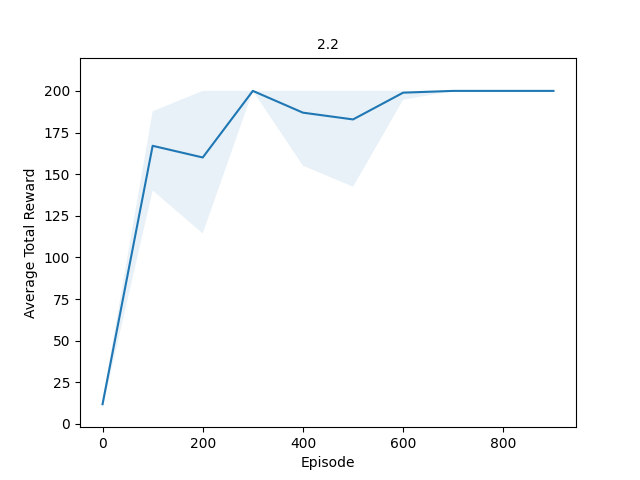
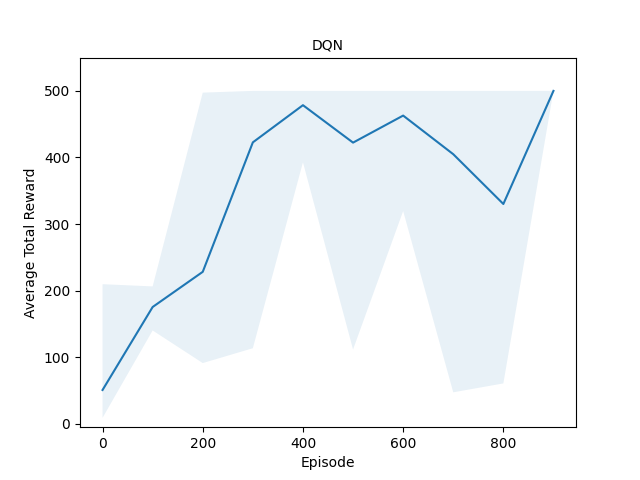
dqn fixes

diff --git a/dqn/dqn_new_2.py b/dqn/dqn_new_2.py
@@ -45,7 +45,7 @@ class ReplayMemory():
     
 
 class DeepQNetwork(nn.Module):
-    def __init__(self, state_size, action_size, lr_q_net=2e-4, gamma=0.99, epsilon=0.05, target_update=50, burn_in=10000, replay_buffer_size=50000, replay_buffer_batch_size=32, device='cpu'):
+    def __init__(self, state_size, action_size, lr_q_net=1e-4, gamma=0.99, epsilon=0.05, target_update=50, burn_in=10000, replay_buffer_size=50000, replay_buffer_batch_size=128, device='cpu'):
         super(DeepQNetwork, self).__init__()
 
         # define init params
@@ -84,13 +84,11 @@ class DeepQNetwork(nn.Module):
 
         # initialize replay buffer, networks, optimizer, move networks to device
         # BEGIN STUDENT SOLUTION
-        self.memory = ReplayMemory(replay_buffer_size, replay_buffer_batch_size)
-        self.q_net = q_net_init()
-        self.target = q_net_init()
+        self.memory = ReplayMemory(replay_buffer_size, self.replay_buffer_batch_size)
+        self.q_net = q_net_init().to(self.device)
+        self.target = q_net_init().to(self.device)
         self.target.load_state_dict(self.q_net.state_dict())
         self.optimizer = optim.AdamW(self.q_net.parameters(), lr=lr_q_net, amsgrad=True)
-        self.q_net = self.q_net.to(self.device)
-        self.target = self.target.to(self.device)
         # END STUDENT SOLUTION
 
 
@@ -98,7 +96,7 @@ class DeepQNetwork(nn.Module):
         return(self.q_net(state), self.target(state))
 
 
-    def get_action(self, state, stochastic):
+    def get_action(self, env, state, stochastic):
         # if stochastic, sample using epsilon greedy, else get the argmax
         # BEGIN STUDENT SOLUTION
         sample = random.random()
@@ -108,7 +106,7 @@ class DeepQNetwork(nn.Module):
           with torch.no_grad():
             return self.q_net(state).max(1).indices.view(1,1)
         else:
-            return torch.tensor([[random.choice([0, 1])]], device=self.device, dtype=torch.long)
+            return torch.tensor([[env.action_space.sample()]], device=self.device, dtype=torch.long)
         # END STUDENT SOLUTION
 
 
@@ -151,11 +149,14 @@ class DeepQNetwork(nn.Module):
             state = torch.tensor(state, dtype=torch.float32, device=self.device).unsqueeze(0)
             total_reward = 0
             for t in count():
-                action = self.get_action(state, False)
+                action = self.get_action(env, state, False)
                 observation, reward, terminated, truncated, _ = env.step(action.item())
                 done = terminated or truncated
                 total_reward += reward
-                next_state = None if done else torch.tensor(observation, dtype=torch.float32, device=self.device).unsqueeze(0)
+                if terminated:
+                  next_state = None
+                else:
+                  next_state = torch.tensor(observation, dtype=torch.float32, device=self.device).unsqueeze(0)
                 state = next_state
                 if done:
                     total_rewards.append(total_reward)
@@ -178,7 +179,10 @@ class DeepQNetwork(nn.Module):
               observation, reward, terminated, truncated, _ = env.step(action.item())
               reward = torch.tensor([reward], device=self.device)
               done = terminated or truncated
-              next_state = None if done else torch.tensor(observation, dtype=torch.float32, device=self.device).unsqueeze(0)
+              if terminated:
+                  next_state = None
+              else:
+                next_state = torch.tensor(observation, dtype=torch.float32, device=self.device).unsqueeze(0)
               self.memory.append((state, action, next_state, reward))
               state = next_state
               if done:
@@ -189,23 +193,25 @@ class DeepQNetwork(nn.Module):
             state = torch.tensor(state, dtype=torch.float32, device=self.device).unsqueeze(0)
             total_reward = 0
             for t in count():
-              action = self.get_action(state, True)
+              action = self.get_action(env, state, True)
               self.steps_done += 1
               observation, reward, terminated, truncated, _ = env.step(action.item())
               reward = torch.tensor([reward], device=self.device)
               done = terminated or truncated
               total_reward += reward
-              next_state = None if done else torch.tensor(observation, dtype=torch.float32, device=self.device).unsqueeze(0)
+              if terminated:
+                  next_state = None
+              else:
+                next_state = torch.tensor(observation, dtype=torch.float32, device=self.device).unsqueeze(0)
               self.memory.append((state, action, next_state, reward))
               state = next_state
               self.train()
 
-              if True or (t+1) % self.target_update == 0:
-                q_net_state_dict = self.q_net.state_dict()
-                target_state_dict = self.target.state_dict()
-                for key in q_net_state_dict:
-                  target_state_dict[key] = q_net_state_dict[key]*self.TAU + target_state_dict[key]*(1-self.TAU)
-                self.target.load_state_dict(target_state_dict)
+              q_net_state_dict = self.q_net.state_dict()
+              target_state_dict = self.target.state_dict()
+              for key in q_net_state_dict:
+                target_state_dict[key] = q_net_state_dict[key]*self.TAU + target_state_dict[key]*(1-self.TAU)
+              self.target.load_state_dict(target_state_dict)
             
               if done:
                 break
@@ -266,7 +272,7 @@ def parse_args():
     parser = argparse.ArgumentParser(description='Train an agent.')
     parser.add_argument('--num_runs', type=int, default=5, help='Number of runs to average over for graph')
     parser.add_argument('--num_episodes', type=int, default=1000, help='Number of episodes to train for')
-    parser.add_argument('--max_steps', type=int, default=200, help='Maximum number of steps in the environment')
+    parser.add_argument('--max_steps', type=int, default=500, help='Maximum number of steps in the environment')
     parser.add_argument('--env_name', type=str, default='CartPole-v1', help='Environment name')
     parser.add_argument('--lr_q_net', type=float, default=1e-4, help='Learning Rate')
     parser.add_argument('--replay_buffer_batch_size', type=int, default=128, help='Replay Buffer Batch Size')
@@ -279,7 +285,7 @@ def main():
 
     # init args, agents, and call graph_agent on the initialized agents
     # BEGIN STUDENT SOLUTION
-    env = gym.make(args.env_name,max_episode_steps=args.max_steps)
+    env = gym.make(args.env_name)
     n_actions = env.action_space.n
     state, _ = env.reset()
     n_observations = len(state)
@@ -297,8 +303,3 @@ def main():
 
 if '__main__' == __name__:
     main()
-
-
-
-# get action
-# run
